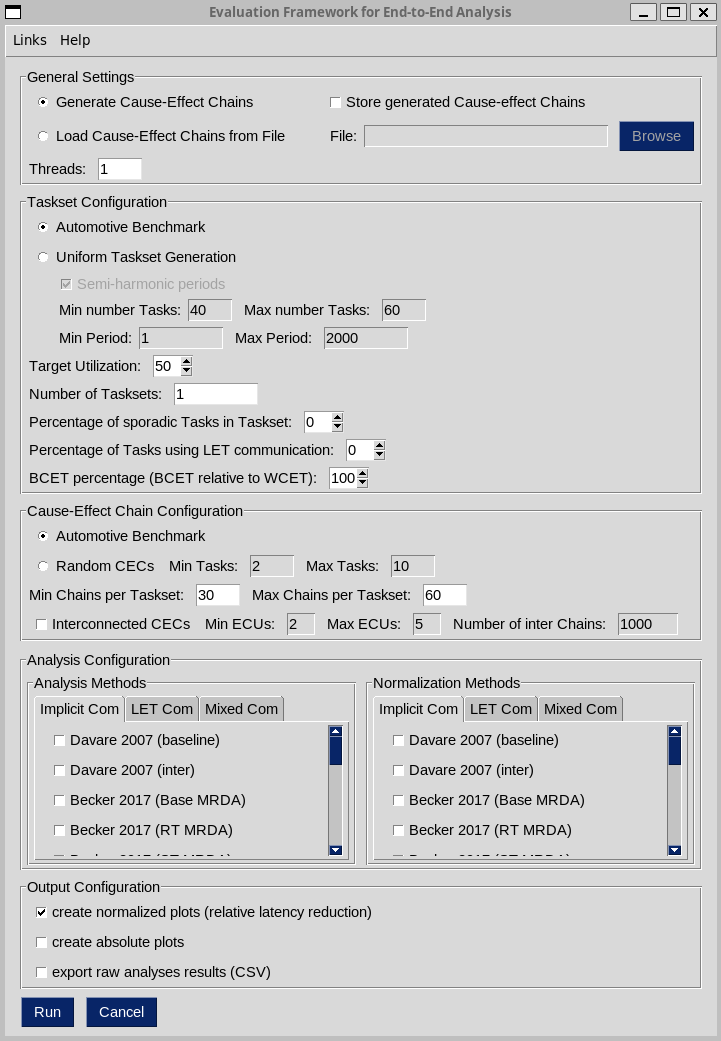
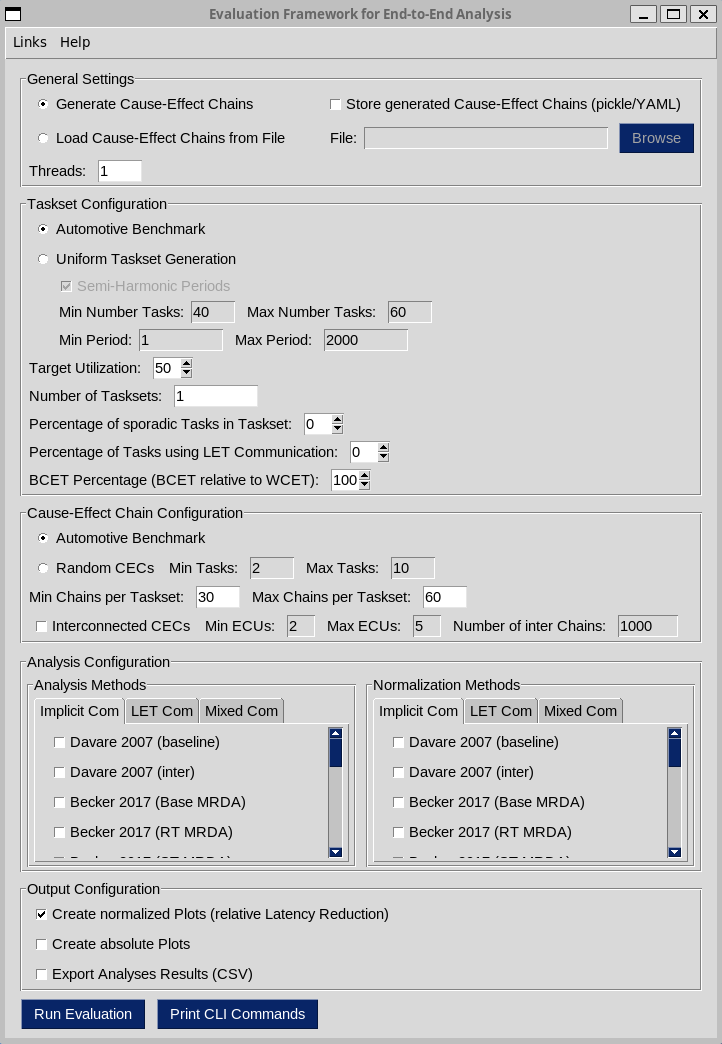
added acknowledgements - minor gui changes - updated gui image

diff --git a/graphicalInterface.py b/graphicalInterface.py
@@ -34,7 +34,7 @@ def inititalizeUI():
     ], k='-MENUBAR-')]
 
     layoutGeneral = [sg.Frame('General Settings', [
-        [sg.Radio('Generate Cause-Effect Chains', "RadioGeneral", default=True, k='-Generate_CEC_Radio-', enable_events=True), sg.Checkbox('Store generated Cause-effect Chains (pickle/YAML)', default=False, k='-Store_CECs_Box-', pad=((60,0),(0,0)))],
+        [sg.Radio('Generate Cause-Effect Chains', "RadioGeneral", default=True, k='-Generate_CEC_Radio-', enable_events=True), sg.Checkbox('Store generated Cause-Effect Chains (pickle/YAML)', default=False, k='-Store_CECs_Box-', pad=((60,0),(0,0)))],
         [sg.Radio('Load Cause-Effect Chains from File', "RadioGeneral", default=False, k='-Load_CEC_Radio-', enable_events=True), sg.Text('File:', pad=((35,0),(0,0))), sg.Input(s=30, k='-File_Input-', disabled=True), sg.FileBrowse(file_types=(("CEC File", "*.pickle"),), k="-Browse-", disabled=True)],
         [sg.Text('Threads:'), sg.Input(s=5, k='-Threads_Input-', default_text='1')],
     ], expand_x=True)]
@@ -42,14 +42,14 @@ def inititalizeUI():
     layoutTaskset = [sg.Frame('Taskset Configuration', [
         [sg.Radio('Automotive Benchmark', "RadioTaskset", default=True, k='-Automotive_Taskset_Radio-', enable_events=True)],
         [sg.Radio('Uniform Taskset Generation', "RadioTaskset", default=False, k='-Uniform_Taskset_Radio-', enable_events=True)],
-            [sg.Checkbox('Semi-harmonic periods', default=True, k='-Semi_harmonic_Box-', pad=((30,0),(0,0)), disabled=True, enable_events=True)],
-            [sg.Text('Min number Tasks:', pad=((35,0),(0,0))), sg.Input(s=5, k='-MINT_Input-', disabled=True, default_text='40'), sg.Text('Max number Tasks:'), sg.Input(s=5, k='-MAXT_Input-', disabled=True, default_text='60')],
+            [sg.Checkbox('Semi-Harmonic Periods', default=True, k='-Semi_harmonic_Box-', pad=((30,0),(0,0)), disabled=True, enable_events=True)],
+            [sg.Text('Min Number Tasks:', pad=((35,0),(0,0))), sg.Input(s=5, k='-MINT_Input-', disabled=True, default_text='40'), sg.Text('Max Number Tasks:'), sg.Input(s=5, k='-MAXT_Input-', disabled=True, default_text='60')],
             [sg.Text('Min Period:', pad=((35,0),(0,0))), sg.Input(s=10, k='-PMIN_Input-', disabled=True, default_text='1'), sg.Text('Max Period:'), sg.Input(s=10, k='-PMAX_Input-', disabled=True, default_text='2000')],
         [sg.Text('Target Utilization:'), sg.Spin(values=[i for i in range(0, 101)], initial_value=50, key='-Utilization_Spin-', s=(3,1))],
         [sg.Text('Number of Tasksets:'), sg.Input(s=10, k='-Number_Tasksets_Input-', default_text='1')],
         [sg.Text('Percentage of sporadic Tasks in Taskset:'), sg.Spin(values=[i for i in range(0, 101)], initial_value=0, key='-Sporadic_Ratio_Spin-', s=(3,1))],
-        [sg.Text('Percentage of Tasks using LET communication:'), sg.Spin(values=[i for i in range(0, 101)], initial_value=0, key='-LET_Ratio_Spin-', s=(3,1))],
-        [sg.Text('BCET percentage (BCET relative to WCET):'), sg.Spin(values=[i for i in range(0, 101)], initial_value=100, key='-BCET_Ratio_Spin-', s=(3,1))]
+        [sg.Text('Percentage of Tasks using LET Communication:'), sg.Spin(values=[i for i in range(0, 101)], initial_value=0, key='-LET_Ratio_Spin-', s=(3,1))],
+        [sg.Text('BCET Percentage (BCET relative to WCET):'), sg.Spin(values=[i for i in range(0, 101)], initial_value=100, key='-BCET_Ratio_Spin-', s=(3,1))]
     ], expand_x=True)]
 
     layoutChain = [sg.Frame('Cause-Effect Chain Configuration', [
@@ -96,9 +96,9 @@ def inititalizeUI():
     ], expand_x=True, size=(None, 220))]
 
     layoutPlot = [sg.Frame('Output Configuration', [
-        [sg.Checkbox('create normalized plots (relative latency reduction)', default=True, k='-CBP1-')],
-        [sg.Checkbox('create absolute plots', default=False, k='-CBP2-')],
-        [sg.Checkbox('export raw analyses results (CSV)', default=False, k='-CBP3-')]
+        [sg.Checkbox('Create normalized Plots (relative Latency Reduction)', default=True, k='-CBP1-')],
+        [sg.Checkbox('Create absolute Plots', default=False, k='-CBP2-')],
+        [sg.Checkbox('Export Analyses Results (CSV)', default=False, k='-CBP3-')]
     ], expand_x=True, expand_y=True)]
 
     ttk_style = 'default'

diff --git a/README.md b/README.md
@@ -182,3 +182,9 @@ Caution is required when redistributing the applied framework, since the local c
 For creating this framework [PySimpleGUI](https://www.pysimplegui.com/) was used. Since the authors of PySimpleGUI decided to introduce a proprietary license for newer versions of their gui framework, it is currently not possible to use it without a license. However, any version that was published before introducing the proprietary license can still be used as free software, therefore PySimpleGUI 4.60.5 is included in this project. Also, there exist some interesting forks that will maybe replace PySimpleGUI in the future (see: [FreeSimpleGUI](https://github.com/spyoungtech/FreeSimpleGUI)).
 
 For creating the tikz-output, the code from [JasonGross/tikzplotlib](https://github.com/JasonGross/tikzplotlib) is used. This code was forked from [nschloe/tikzplotlib](https://github.com/nschloe/tikzplotlib) and is currently much better maintained than the repository from the original author.
+
+## Acknowledgements
+
+I would like to thank my mentor Mario Günzel for his support and his valuable feedback for this master's thesis. Thanks to him and Prof. Dr. Jian-Jia Chen, many implementations for end-to-end analysis were provided to the evaluation framework by different research groups.
+
+In addition, I would like to thank Matthias Becker from KTH Royal Institute of Technology, Prof. Jiankang Ren from Dalian University of Technology, Pourya Gohari from Eindhoven University of Technology, and Paolo Pazzaglia from Robert Bosch GmbH, formerly a researcher at Saarland University for contributing source code and additional information for their analyses.
